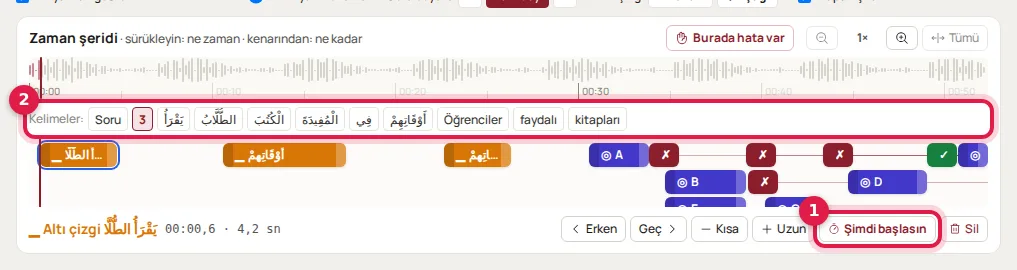
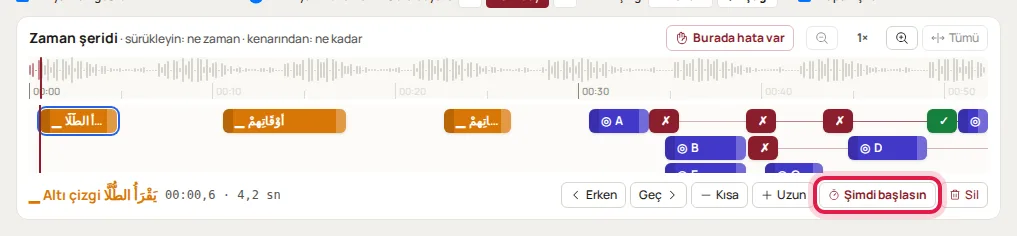
Simpler editing: no word row or line colours; handles follow; no false passage warnings
- Zaman şeridi: the Kelimeler row is removed.
- Underlines are always orange: the colour palette and per-line colours are gone.
- Every drawn mark starts at the paused moment, so consecutive lines show at once
  (they no longer start one after another, invisible while paused); shaped marks
  are not outlined while a tool is on.
- The selection frame updates its handles as soon as a box is resized or moved.
- A long Arabic sentence underlined in an option is no longer counted as a passage:
  no "Arapça paragrafın altı çizilemedi" warning for it; the panel note says how
  many long options are underlined in place.
- Yardım, its pictures and Yenilikler updated.

Claude-Session: https://claude.ai/code/session_01YQoPQ6VQb1pB91X97rm1wF

Changed region(s): [[0.0, 0.0297, 1.0, 0.9492], [0.0305, 0.7712, 0.2743, 0.8898], [0.0, 0.0, 0.0305, 0.0297]]

diff --git a/src/features/video/PreviewEditOverlay.tsx b/src/features/video/PreviewEditOverlay.tsx
@@ -38,30 +38,6 @@ export function resizeRegion(region: AnnotationRegion, handle: Handle, dx: numbe
   return { ...region, x: left, y: top, width: right - left, height: bottom - top, manuallyAdjusted: true };
 }
 
-/** Underline colours: the studio's orange first, then colours that read well on a printed page. */
-export const LINE_COLORS = [
-  { color: '#D97706', name: 'Turuncu' }, { color: '#DC2626', name: 'Kırmızı' }, { color: '#2563EB', name: 'Mavi' },
-  { color: '#16A34A', name: 'Yeşil' }, { color: '#7C3AED', name: 'Mor' }, { color: '#DB2777', name: 'Pembe' },
-  { color: '#0891B2', name: 'Turkuaz' }, { color: '#CA8A04', name: 'Hardal' }, { color: '#92400E', name: 'Kahverengi' },
-  { color: '#1C1917', name: 'Siyah' },
-] as const;
-const LINE_COLOR_KEY = 'studio-line-color';
-const savedLineColor = () => { try { return localStorage.getItem(LINE_COLOR_KEY) || LINE_COLORS[0].color; } catch { return LINE_COLORS[0].color; } };
-
-/** Ten colour dots; the chosen one is ringed. */
-function ColorDots({ value, onPick, label, row }: { value: string; onPick: (color: string) => void; label: string; row?: boolean }) {
-  return (
-    <div role="radiogroup" aria-label={label} className={row ? 'flex items-center gap-0.5' : 'grid grid-cols-5 gap-1'}>
-      {LINE_COLORS.map(c => (
-        <button key={c.color} type="button" role="radio" aria-checked={value === c.color} aria-label={c.name} title={c.name}
-          onClick={() => onPick(c.color)}
-          className={`${row ? 'w-4 h-4' : 'w-6 h-6'} rounded-full border-2 ${value === c.color ? 'border-[#1C1917] ring-2 ring-white' : 'border-white/80 hover:scale-110'} transition-transform`}
-          style={{ background: c.color }} />
-      ))}
-    </div>
-  );
-}
-
 /** Marks a teacher can put on the picture, in toolbar order. */
 export const TOOLS = ['reject', 'correct', 'focus', 'circle', 'underline', 'highlight'] as const;
 export type Tool = typeof TOOLS[number];
@@ -198,14 +174,9 @@ export function PreviewEditOverlay({ fit, canvasWidth, canvasHeight, regions, ac
   const [draft, setDraft] = useState<AnnotationRegion | VideoAction | null>(null);
   const [tool, setTool] = useState<Tool | null>(null);
   const [hasCopy, setHasCopy] = useState(!!copied);
-  // The colour new underlines get, kept on this device.
-  const [lineColor, setLineColor] = useState(savedLineColor);
-  const pickLineColor = (color: string) => { setLineColor(color); try { localStorage.setItem(LINE_COLOR_KEY, color); } catch { /* per-device only */ } };
   useEffect(() => { if (focusBox && !tool && !drawOption) setSelectedId(focusBox.id); }, [focusBox]); // eslint-disable-line react-hooks/exhaustive-deps
   const keys = useRef<(e: KeyboardEvent) => void>(() => {});
   const onPicture = useRef(false);
-  /** The underlines drawn one after another at this paused moment: where the next one starts. */
-  const lineSeries = useRef<{ time: number; end: number } | null>(null);
   useEffect(() => {
     // Capture: runs before the page's Esc (leaving full screen), so Esc first lets go of a box or tool.
     const key = (e: KeyboardEvent) => keys.current(e);
@@ -221,6 +192,10 @@ export function PreviewEditOverlay({ fit, canvasWidth, canvasHeight, regions, ac
 
   const picks = pickableRegions(regions);
   const selected = picks.find(r => r.id === selectedId);
+  // The selection frame follows the box at once when it is resized or moved (not one step later).
+  const frame = useRef<Moveable>(null);
+  useEffect(() => { frame.current?.updateRect(); },
+    [selected?.x, selected?.y, selected?.width, selected?.height, canvasWidth, canvasHeight, fit.x, fit.y, fit.width, fit.height]);
   const shown = (r: AnnotationRegion) => draft && 'x' in draft && draft.id === r.id ? draft : r;
   // Percent of the overlay for a rectangle in canvas pixels.
   const pct = (rect: FitRect) => ({ left: `${rect.x / canvasWidth * 100}%`, top: `${rect.y / canvasHeight * 100}%`,
@@ -283,17 +258,13 @@ export function PreviewEditOverlay({ fit, canvasWidth, canvasHeight, regions, ac
         setSelectedId(id); setTool(null);
       } else if (tool && place) {
         const id = `manual-box-${Date.now()}`;
-        // Underlines are drawn line after line with the tool kept: each new line follows the
-        // previous one in time (while the preview stays at the same moment).
-        const series = tool === 'underline';
-        const at = series && lineSeries.current && Math.abs(lineSeries.current.time - time) < .01 ? lineSeries.current.end : time;
-        // The line flows the way it was dragged (left-to-right or, as Arabic is read, right-to-left).
-        const fromLeft = series && draft && 'x' in draft && gesture.ix <= draft.x + draft.width / 2;
-        const marks = addMark([], id, tool, at, total).map(m => ({ ...m, ...(fromLeft ? { fromLeft: true } : {}),
-          ...(tool === 'underline' && lineColor !== LINE_COLORS[0].color ? { color: lineColor } : {}) }));
+        // Every mark starts at the paused moment, so it shows at once; its time is set on the strip.
+        // The underline tool stays on to draw several lines; the line flows the way it was dragged.
+        const line = tool === 'underline';
+        const fromLeft = line && draft && 'x' in draft && gesture.ix <= draft.x + draft.width / 2;
+        const marks = addMark([], id, tool, time, total).map(m => fromLeft ? { ...m, fromLeft: true } : m);
         onRegions([...regions, { ...place, id }], marks);
-        if (series) lineSeries.current = { time, end: Math.min(total - .1, at + marks[0].duration) };
-        else { setSelectedId(id); setTool(null); }
+        if (!line) { setSelectedId(id); setTool(null); }
       } else if (gesture.boxId) markBox(gesture.boxId);
     } else if (gesture && draft && 'x' in draft) onRegions(regions.map(r => r.id === draft.id ? draft : r));
     else if (gesture && draft) onActions(actions.map(a => a.id === draft.id ? draft as VideoAction : a));
@@ -324,17 +295,7 @@ export function PreviewEditOverlay({ fit, canvasWidth, canvasHeight, regions, ac
   const removeMark = (id: string) => onActions(actions.filter(a => a.id !== id));
   const markHere = (action: VideoAction) => onActions(actions.map(a => a.id === action.id ? nudgeAction(a, time - a.start, total) : a));
   const removeBox = (id: string) => { setSelectedId(null); onRegions(regions.filter(r => r.id !== id)); };
-  const markBox = (id: string) => {
-    if (!tool) return;
-    const added = addMark(actions, id, tool, time, total)
-      .map(m => tool === 'underline' && m.targetRegionId === id && !actions.includes(m) && lineColor !== LINE_COLORS[0].color ? { ...m, color: lineColor } : m);
-    onActions(added); setSelectedId(id); setTool(null);
-  };
-  /** A selected box's underlines take the colour (and new lines get it too). */
-  const recolorLines = (id: string, color: string) => {
-    pickLineColor(color);
-    onActions(actions.map(a => a.targetRegionId === id && a.type === 'underline' ? { ...a, color: color === LINE_COLORS[0].color ? undefined : color } : a));
-  };
+  const markBox = (id: string) => { if (tool) { onActions(addMark(actions, id, tool, time, total)); setSelectedId(id); setTool(null); } };
   const copy = (region: AnnotationRegion) => {
     copied = { region, marks: actions.filter(a => a.targetRegionId === region.id && ICON[a.type]) };
     setHasCopy(true);
@@ -393,13 +354,6 @@ export function PreviewEditOverlay({ fit, canvasWidth, canvasHeight, regions, ac
             style={tool === t ? { background: ICON[t]!.color } : { color: ICON[t]!.color }}>{ICON[t]!.icon}</button>
         ))}
       </div>
-      {tool === 'underline' && (
-        <div className="absolute left-14 top-1/2 -translate-y-1/2 p-2 rounded-xl bg-white/95 shadow-md border border-[#D5D4CC] space-y-1.5"
-          onPointerDown={e => e.stopPropagation()}>
-          <p className="text-[11px] font-semibold text-[#55544F]">Çizgi rengi</p>
-          <ColorDots value={lineColor} onPick={pickLineColor} label="Yeni çizgilerin rengi" />
-        </div>
-      )}
       <div className="absolute top-2 left-2 flex items-center gap-1.5 pointer-events-auto" onPointerDown={e => e.stopPropagation()}>
         <span className={`px-2 py-1 rounded-md text-white text-xs ${drawOption ? 'bg-[#8B1E2D] font-semibold' : 'bg-black/60'}`}>
           {drawOption ? `${drawOption} şıkkı: kutusunu görselde sürükleyerek çizin ya da onu gösteren kutuya tıklayın · Esc: vazgeç` : tool === 'underline' ? 'Alt çizgi: başlangıca basın, sağa ya da sola sürükleyip bırakın · yazının altına bırakırsanız satıra oturur · bitince Esc'
@@ -424,7 +378,7 @@ export function PreviewEditOverlay({ fit, canvasWidth, canvasHeight, regions, ac
         return (
           <div key={region.id} role="button" aria-label={`${region.shape ? (active[0] ? ICON[active[0].type]!.name : 'İşaret') : boxName(region, regions)} kutusu`}
             title="Seç: taşımak için sürükleyin"
-            className={`absolute ${shapeClass} ${drawing ? 'cursor-crosshair border border-dashed border-[#2563EB]/60 hover:bg-[#2563EB]/10' : 'cursor-move'} transition-[border-color] ${drawing ? '' : isSelected ? (region.shape ? 'border border-dashed border-[#2563EB]' : 'border-2 border-[#2563EB] bg-[#2563EB]/5') : color ? 'border-2' : 'border border-dashed border-white/0 hover:border-[#2563EB]/70'}`}
+            className={`absolute ${shapeClass} ${drawing ? `cursor-crosshair ${region.shape ? '' : 'border border-dashed border-[#2563EB]/60'} hover:bg-[#2563EB]/10` : 'cursor-move'} transition-[border-color] ${drawing ? '' : isSelected ? (region.shape ? 'border border-dashed border-[#2563EB]' : 'border-2 border-[#2563EB] bg-[#2563EB]/5') : color ? 'border-2' : 'border border-dashed border-white/0 hover:border-[#2563EB]/70'}`}
             style={{ ...pct(rect), ...(isSelected || !color ? {} : { borderColor: `${color}AA` }) }}
             ref={el => { if (el) boxes.current.set(region.id, el); else boxes.current.delete(region.id); }}
             onPointerDown={e => {
@@ -437,7 +391,7 @@ export function PreviewEditOverlay({ fit, canvasWidth, canvasHeight, regions, ac
       })}
 
       {selected && !drawing && boxes.current.get(selected.id) && (
-        <Moveable key={selected.id} target={boxes.current.get(selected.id)!} draggable resizable origin={false} keepRatio={selected.shape === 'stamp'}
+        <Moveable ref={frame} key={selected.id} target={boxes.current.get(selected.id)!} draggable resizable origin={false} keepRatio={selected.shape === 'stamp'}
           // A line is lengthened from its two ends, a stamp sized from its corners; a box from every side.
           renderDirections={selected.shape === 'stamp' ? ['nw', 'ne', 'sw', 'se']
             : selected.shape === 'line' || (selectedMarks.length && selectedMarks.every(m => m.type === 'underline')) ? ['w', 'e']
@@ -478,7 +432,7 @@ export function PreviewEditOverlay({ fit, canvasWidth, canvasHeight, regions, ac
           style={{ left: pct(selectedRect).left, width: pct(selectedRect).width,
             top: `${(underlineY(selectedRect, scale, underlineOffset + (lineAction.lineOffset ?? 0)) - 8 * scale) / canvasHeight * 100}%`, height: `${16 * scale / canvasHeight * 100}%` }}
           onPointerDown={e => begin(e, { mode: 'line', x: e.clientX, y: e.clientY, action: line!, heightPx: selectedRect.height })}>
-          <span className="w-full h-[3px] rounded shadow-[0_0_0_2px_white]" style={{ background: lineAction.color || '#D97706' }} />
+          <span className="w-full h-[3px] rounded bg-[#D97706] shadow-[0_0_0_2px_white]" />
         </div>
       )}
 
@@ -493,7 +447,7 @@ export function PreviewEditOverlay({ fit, canvasWidth, canvasHeight, regions, ac
           {selectedMarks.length === 0 && <span className="px-1 text-[#787670]">İşaret yok</span>}
           {selectedMarks.map(mark => (
             <span key={mark.id} className="inline-flex items-center gap-0.5 rounded border border-[#E5E4DC] pl-1" title={`${ICON[mark.type]!.name} · ${clock(mark.start)}`}>
-              <span className="font-bold" style={{ color: mark.type === 'underline' && mark.color ? mark.color : ICON[mark.type]!.color }}>{ICON[mark.type]!.icon}</span>
+              <span className="font-bold" style={{ color: ICON[mark.type]!.color }}>{ICON[mark.type]!.icon}</span>
               <span className="font-mono-code">{clock(mark.start)}</span>
               <button type="button" onClick={() => markHere(mark)} disabled={Math.abs(mark.start - time) < .05} title={`${clock(time)} anına al`}
                 className="p-1 rounded hover:bg-[#F2F1EB] disabled:opacity-30" aria-label="Buraya al"><MapPin size={11} /></button>
@@ -501,7 +455,6 @@ export function PreviewEditOverlay({ fit, canvasWidth, canvasHeight, regions, ac
                 className="p-1 rounded text-[#8B1E2D] hover:bg-red-50"><X size={11} /></button>
             </span>
           ))}
-          {line && <ColorDots row value={line.color || LINE_COLORS[0].color} onPick={color => recolorLines(selected.id, color)} label="Bu çizginin rengi" />}
           {onAssignOption && (selected.type.startsWith('option-') || (!selected.content && !selected.shape)) && (
             <span className="inline-flex items-center gap-0.5" role="group" aria-label="Bu kutu hangi şık?">
               <span className="text-[#787670] px-0.5">Şık:</span>

diff --git a/src/features/help/helpTopics.ts b/src/features/help/helpTopics.ts
@@ -140,7 +140,7 @@ export const HELP_TOPICS: HelpTopic[] = [
       { text: '**4 İşaretler** adımında ilk kez **İşaretleri otomatik hazırla**’ya basın. Stüdyo soru görselini okur (şıkları ve Arapça ifadeleri bulur), metninizden hangi şıkkın ne zaman eleneceğini çıkarır ve her işareti seste söylendiği ana yerleştirir. Birkaç saniye sürer.' },
       { text: 'Ekranda üstte videonun önizlemesi, altında ayarlar satırı ve **Zaman şeridi** vardır. Önizlemede ▶ ile videoyu izleyin; 1× … 2× düğmeleriyle daha hızlı izleyebilirsiniz.', image: 'isaretler', alt: 'Önizleme ve işaret araçları' },
       { text: 'Yanlış bir şey görürseniz **Burada hata var**’a basın: video durur ve az önce çıkan işaretin kutusu görselde seçilir.' },
-      { text: 'Video durunca görsel düzenlenebilir olur. Bir kutuya ya da işarete tıklayınca yanında küçük bir çubuk açılır: işaretleri ve saatleri, şık kutularında **Şık** harfleri, çizgide renkler, kopyala, yapıştır ve sil düğmeleri buradadır.', image: 'isaret-secili', alt: 'Seçili kutu ve çubuğu' },
+      { text: 'Video durunca görsel düzenlenebilir olur. Bir kutuya ya da işarete tıklayınca yanında küçük bir çubuk açılır: işaretleri ve saatleri, şık kutularında **Şık** harfleri, kopyala, yapıştır ve sil düğmeleri buradadır.', image: 'isaret-secili', alt: 'Seçili kutu ve çubuğu' },
       { text: 'Bir işaretin zamanını **Zaman şeridi**nden düzeltin. Her işaret bir kutucuktur: sürükleyince işaret daha erken ya da geç çıkar, kenarından çekince ne kadar kalacağı değişir.', image: 'zaman-seridi', alt: 'Zaman şeridi' },
       { text: 'Bitince **İndirmeye geç**’e basın. Değişiklikler kendiliğinden kaydedilir.' },
     ],
@@ -175,9 +175,8 @@ export const HELP_TOPICS: HelpTopic[] = [
           '**◎ ◯ ▮**: Aracı seçip istediğiniz yere sürükleyerek alan çizin. Daire tam çizdiğiniz alanın etrafına çizilir. Var olan bir kutuya tıklarsanız işaret o kutuya konur.',
           'Önizleme durduğunda işaretler tamamlanmış hâliyle görünür; eklediğiniz işaret hemen görülür. Oynatınca her biri sesteki anında çizilerek gelir.',
           '**▁ Alt çizgi**: Aracı seçin, çizginin başlayacağı yere basın ve basılı tutup sağa ya da sola sürükleyip bırakın. Çizginin kalınlığı ve rengi sabittir, yalnız boyu değişir. Yazının hemen altına bırakırsanız çizgi kendiliğinden o satırın altına oturur. Videoda çizgi, sizin sürüklediğiniz yönde akar (Arapça için sağdan sola sürükleyin).',
-          '**Çizgi rengi**: ▁ aracını seçince yanında 10 renk çıkar; seçtiğiniz renk yeni çizgilere uygulanır ve bu cihazda hatırlanır. Çizilmiş bir çizgiyi seçince penceresinde de renkler vardır; tıklayınca o çizginin rengi değişir.',
           'Çizgi, önizlemenin durduğu anda zaman şeridine iner; ne kadar süreceğini şeritte kenarından çekerek ya da **Şimdi** düğmesiyle dinleyerek ayarlarsınız. Çizgiyi sonradan uzatıp kısaltmak için seçin ve iki ucundaki tutamaçları çekin.',
-          '**▁** aracı çizdikten sonra açık kalır: satırların altına sırayla çizgi çekebilirsiniz; her yeni çizgi bir öncekinin bittiği andan başlar. Bitince **Esc**’ye basın.',
+          '**▁** aracı çizdikten sonra açık kalır: birkaç satırın altını arka arkaya çizebilirsiniz. Her çizgi önizlemenin durduğu anda başlar ve hemen görünür; zamanlarını şeritten ayarlarsınız. Bitince **Esc**’ye basın.',
           'Stüdyonun kendisinin bulduğu bir ifadede çizgiyi seçince çizginin kendisini fareyle tutup yukarı aşağı sürükleyerek yalnız o çizginin yüksekliğini ayarlayabilirsiniz.',
           'Görselin üstündeki **Geri al** son değişikliği geri alır.',
         ],
@@ -187,8 +186,7 @@ export const HELP_TOPICS: HelpTopic[] = [
         items: [
           'İşaretler: her işaret simgesi ve saatiyle yazar. Raptiye (**Buraya al**) işareti önizlemenin durduğu ana taşır; ✕ işareti siler.',
           '**Şık** harfleri: Kutunun hangi şık olduğunu söyler. Bir harfe basınca kutu o şık olur; o şıkkın çarpısı ya da tiki sese göre kendiliğinden gelir. (Şık kutularında ve elle çizilen düz kutularda görünür.)',
-          'Renkler: seçili bir çizginin rengini değiştirir.',
-          'Kopyala / Yapıştır: kutuyu ya da işareti çoğaltır. Kopya biraz yanda çıkar ve işaretleri önizlemenin durduğu andan başlar; sürükleyip yerine koyun.',
+                    'Kopyala / Yapıştır: kutuyu ya da işareti çoğaltır. Kopya biraz yanda çıkar ve işaretleri önizlemenin durduğu andan başlar; sürükleyip yerine koyun.',
           'Çöp kutusu: kutuyu ya da işareti siler (**Delete** tuşu da siler).',
         ],
       },
@@ -196,7 +194,6 @@ export const HELP_TOPICS: HelpTopic[] = [
         title: 'Zaman şeridi',
         items: [
           'Üstte sesin dalgası, altında işaret kutucukları vardır. Kırmızı dikey çizgi önizlemenin şu anki yeridir; dalgaya tıklayınca oraya gidilir.',
-          'Dalganın hemen altında seslendirmenin **kelimeleri** yazar. Bir işaret seçiliyken bir kelimeye tıklarsanız işaret tam o kelimenin söylendiği anda başlar. İşaret seçili değilken tıklarsanız önizleme o kelimeye gider.',
           'Renkler: turuncu altı çizgi, mor çerçeve, kırmızı daire ve çarpı, yeşil tik.',
           'Bir kutucuğa tıklayınca altta ayarları çıkar: **Şimdi başlasın / Şimdi bitsin**, **Erken / Geç** (0,1 saniye), **Kısa / Uzun** (yarım saniye) ve **Sil**.',
           '**Şimdi ile dinleyerek zamanlama** (en kolay yol): İşaretin kutucuğuna tıklayın, **Boşluk** ile sesi oynatın. İşaret çıkması gereken anda **Şimdi başlasın**’a (ya da **Enter**’a) basın; altı çizgi, çerçeve ve dairede bitmesi gereken anda bir kez daha basın (**Şimdi bitsin**). Çarpı ve tik yalnız başlar, sona kadar kalır.',
@@ -219,9 +216,9 @@ export const HELP_TOPICS: HelpTopic[] = [
         items: [
           '**Bir şık bulunamadı** (“Eksik şık: C”): Sağdaki **Yayına hazır** listesinde **C şıkkını görselde göster**’e basıp kutusunu çizin; ya da o şıkkı gösteren kutuya tıklayıp **Hangi şık?** satırından C’yi seçin. Çarpısı ya da tiki sese göre kendiliğinden gelir.',
           '**İki şık tek kutuda birleşmiş** (örneğin B ile C): Kutuyu tutamaçlarından küçültüp yalnız B’yi içine alacak hâle getirin. **Yayına hazır** listesi C’yi eksik gösterir; **C şıkkını görselde göster**’e basıp C’nin kutusunu çizin. C’nin işaretleri kendiliğinden gelir.',
-          '**Bir kelimenin altı çizilmemiş**: Şeritteki kelimelerden o kelimeye tıklayın (önizleme oraya gider), ▁ aracıyla kelimenin altına sağdan sola sürükleyin. Süresini **Şimdi** ile dinleyerek ayarlayın.',
+          '**Bir kelimenin altı çizilmemiş**: Önizlemeyi o kelimenin okunduğu yerde durdurun, ▁ aracıyla kelimenin altına sağdan sola sürükleyin. Süresini **Şimdi** ile dinleyerek ayarlayın.',
           '**Altı çizgiler kelimelerin fazla altında ya da üstünde**: Ayarlar satırındaki **↑ Yukarı / ↓ Aşağı**.',
-          '**İşaret erken ya da geç çıkıyor**: Kutucuğu seçip şeritteki doğru kelimeye tıklayın, ya da dinlerken **Şimdi başlasın**’a basın. İnce ayar için **Erken / Geç**.',
+          '**İşaret erken ya da geç çıkıyor**: Kutucuğu seçip dinlerken **Şimdi başlasın**’a basın ya da şeritte sürükleyin. İnce ayar için **Erken / Geç**.',
           '**Altyazı bir şıkkı kapatıyor**: **Soru boyutu −** ile soruyu küçültün ya da **Altyazı konumu**nu değiştirin.',
           '**Her şey karıştı**: Sağdaki **İşaretleri yeniden hazırla** işaretleri baştan kurar. Elle yaptığınız düzeltmeler silineceği için önce onay ister.',
           'Sağ panelde görselin nasıl okunduğu ve varsa paragrafın kaç satırının bulunduğu yazar. Paragraf görselde bulunamazsa sebebi de orada yazar.',

diff --git a/src/features/video/MarkTimeline.tsx b/src/features/video/MarkTimeline.tsx
@@ -3,7 +3,7 @@ import WaveSurfer from 'wavesurfer.js';
 import TimelinePlugin from 'wavesurfer.js/plugins/timeline';
 import HoverPlugin from 'wavesurfer.js/plugins/hover';
 import { ArrowsOutLineHorizontal, CaretLeft, CaretRight, MagnifyingGlassMinus, MagnifyingGlassPlus, Minus, Plus, Timer, Trash, HandPalm } from '@phosphor-icons/react';
-import type { AnnotationRegion, NarrationWord, VideoAction } from '../../types';
+import type { AnnotationRegion, VideoAction } from '../../types';
 import { adjacentAction, clock, isTypingTarget, nudgeAction } from '../question-editor/workflow';
 
 const MARK: Partial<Record<VideoAction['type'], { icon: string; color: string; name: string }>> = {
@@ -64,11 +64,6 @@ export function tapMark(action: VideoAction, time: number, total: number, stage:
   return nudgeAction(action, time - action.start, total);
 }
 
-/** The words said around `time` (a few before, more after), in the order they are said. */
-export function nearbyWords(words: NarrationWord[], time: number, before = 2.5, after = 6, max = 14) {
-  return words.map((w, i) => ({ w, i })).filter(({ w }) => w.end >= time - before && w.start <= time + after).slice(0, max);
-}
-
 const seconds = (s: number) => `${s.toLocaleString('tr', { maximumFractionDigits: 1 })} sn`;
 
 interface Props {
@@ -88,8 +83,6 @@ interface Props {
   playing?: boolean;
   /** "Burada hata var": the box of the mark just seen, to select it on the picture (null: none). */
   onFlag?: (regionId: string | null) => void;
-  /** The narration's words, shown under the waveform: a click moves the selected mark to that word. */
-  words?: NarrationWord[];
 }
 
 /**
@@ -108,7 +101,7 @@ export function markJustSeen(marks: VideoAction[], time: number, within = 4): Vi
  * how long it stays (an underline is drawn over that whole time). Crosses and ticks stay to the
  * end, so only their start moves. Zoom in for fine timing; the marks follow the zoom and scroll.
  */
-export function MarkTimeline({ actions, regions, duration, currentTime, audioUrl, onSeek, onPlayPause, onActions, keyboard, compact, playing, onFlag, words = [] }: Props) {
+export function MarkTimeline({ actions, regions, duration, currentTime, audioUrl, onSeek, onPlayPause, onActions, keyboard, compact, playing, onFlag }: Props) {
   const waveBox = useRef<HTMLDivElement>(null);
   const lanesBox = useRef<HTMLDivElement>(null);
   const surfer = useRef<WaveSurfer | null>(null);
@@ -283,24 +276,6 @@ export function MarkTimeline({ actions, regions, duration, currentTime, audioUrl
 
       <div ref={waveBox} className="rounded-md bg-[#FAF9F5] cursor-pointer" title="Tıklayın ya da sürükleyin: o ana gidin" />
 
-      {words.length > 0 && (
-        // A fixed height: Arabic words set taller than Turkish ones, and a row that grows while the
-        // voice plays would make the editor rescale the question every few seconds.
-        <div className="flex flex-nowrap items-center gap-1 overflow-hidden text-xs h-7 shrink-0" aria-label="Seslendirmenin kelimeleri">
-          <span className="shrink-0 text-[#8A8880]" title="Kırmızı çizginin olduğu yerde söylenen kelimeler, söylendikleri sırayla">Kelimeler:</span>
-          {nearbyWords(words, currentTime).map(({ w, i }) => (
-            <button key={`${i}-${w.start}`} type="button" dir="auto"
-              className={`shrink-0 h-6 px-1.5 leading-6 overflow-hidden rounded border ${currentTime >= w.start && currentTime < w.end ? 'border-[#8B1E2D] bg-[#F6E3E5] text-[#8B1E2D] font-semibold' : 'border-[#E5E4DC] bg-white text-[#33322E] hover:border-[#8B1E2D] hover:text-[#8B1E2D]'}`}
-              title={selectedId ? `Seçili işaret “${w.text}” söylenirken başlasın (${clock(w.start)})` : `${clock(w.start)}: buraya gidin`}
-              onClick={() => {
-                const mark = actions.find(a => a.id === selectedId);
-                if (mark) replace(nudgeAction(mark, w.start - mark.start, total));
-                onSeek(w.start);
-              }}>{w.text}</button>
-          ))}
-        </div>
-      )}
-
       <div className={compact && laneCount > COMPACT_ROWS ? 'overflow-y-auto rounded-md' : undefined}
         style={compact && laneCount > COMPACT_ROWS ? { maxHeight: COMPACT_ROWS * LANE + 14 } : undefined}
         title={compact && laneCount > COMPACT_ROWS ? 'Diğer işaretler için şeridi aşağı kaydırın' : undefined}>
@@ -350,7 +325,7 @@ export function MarkTimeline({ actions, regions, duration, currentTime, audioUrl
             </span>
           </>
         ) : (
-          <span className="text-[#A8A69E]">Bir işarete tıklayın: “Şimdi” (Enter), erken/geç, kısa/uzun ve sil burada çıkar · kelimeye tıklayınca seçili işaret oraya gelir.</span>
+          <span className="text-[#A8A69E]">Bir işarete tıklayın: “Şimdi” (Enter), erken/geç, kısa/uzun ve sil burada çıkar.</span>
         )}
       </div>
     </div>

diff --git a/src/features/help/changelog.ts b/src/features/help/changelog.ts
@@ -21,11 +21,12 @@ export const NEWS: NewsEntry[] = [
           { text: '**Çarpı ve tik tıkladığınız yere konur:** Aracı seçip görselde bir noktaya tıklayın, işaret tam oraya gelir; kendisinden tutup taşıyabilir, köşesinden büyütebilirsiniz. Bir şıkka tıklarsanız eskisi gibi o şık işaretlenir.', help: 'isaretler' },
           { text: '**Çizgi yalnız çizgidir:** Çizdiğiniz çizginin etrafında kutu yok; seçince yalnız iki ucunda tutamak çıkar, ortasından tutup taşırsınız.', help: 'isaretler' },
           { text: '**Daire çizdiğiniz yere oturur** ve kendisinden tutulup taşınır, kenarlarından büyütülür.', help: 'isaretler' },
-          { text: '**Küçük araç çubuğu:** Bir işareti seçince büyük pencere yerine küçük bir çubuk çıkar: saat, buraya al, sil, renk, kopyala. Taşırken yazı satırlarına ve diğer işaretlere hizalanır.', help: 'isaretler' },
+          { text: '**Küçük araç çubuğu:** Bir işareti seçince büyük pencere yerine küçük bir çubuk çıkar: saat, buraya al, sil, kopyala. Taşırken yazı satırlarına ve diğer işaretlere hizalanır.', help: 'isaretler' },
+          { text: 'Büyütüp küçültünce mavi tutamaklar işaretle birlikte hemen yerine oturur.' },
+          { text: 'Arka arkaya çizilen çizgilerin her biri önizlemenin durduğu anda başlar ve hemen turuncu görünür; zamanını şeritten ayarlarsınız.', help: 'isaretler' },
+          { text: 'Uzun şıkları okuyan sorularda sağdaki listede yanlış “Arapça paragrafın altı çizilemedi” uyarıları artık çıkmaz (şıkların altı zaten şıkta çiziliyor). Eski sorularda **İşaretleri yeniden hazırla**’ya basınca kalkar.' },
           { text: 'Önizleme dururken eklediğiniz işaret hemen görünür (önceden oynatmadan görünmüyordu).' },
-          { text: '**Çizgi rengi:** ▁ aracını seçince yanında 10 renk çıkar; seçtiğiniz renk yeni çizgilere uygulanır. Çizilmiş bir çizgiyi seçip penceresinden rengini değiştirebilirsiniz.', help: 'isaretler' },
           { text: '**Uzun şıkların altı çizilir:** Çözüm bir şıkkın beş kelimeden uzun Arapça cümlesini okurken (“A seçeneğinde şöyle deniyor: …”), o cümlenin altı şıkkın kendi satırlarında, okundukça çizilir. Kısa şıklar yalnız çerçevelenir.', help: 'isaretler' },
-          { text: '**Kelimeden zamanlama:** Şeridin altında o anda söylenen kelimeler yazar. Bir işaret seçiliyken kelimeye tıklarsanız işaret tam o kelimede başlar.', help: 'isaretler' },
         ],
       },
       {

diff --git a/src/services/pipeline/localVideoPipeline.ts b/src/services/pipeline/localVideoPipeline.ts
@@ -142,7 +142,12 @@ export class LocalVideoPipeline {
     const stemWords = wordsOutside(ocrResult.words, options);
     const { passageMatches, arabicMatches } = planArabicMarks(solutionText, stemWords, ocrResult.arabicStemWords, suppressed, options, ocrResult.words);
     const passages = findPassages(solutionText);
-    const missedPassages = passages.filter(p => !passageMatches.some(m => m.passageEnd === p[p.length - 1].to));
+    // A long Arabic sentence read as an option is underlined in the option: it is not a passage to find.
+    const readInOption = (p: typeof passages[number]) => arabicMatches.some(m => m.region.id.startsWith('option-')
+      && m.sourceStart !== undefined && m.sourceStart >= p[0].from && m.sourceStart < p[p.length - 1].to);
+    const optionReads = passages.filter(readInOption);
+    const realPassages = passages.filter(p => !readInOption(p));
+    const missedPassages = realPassages.filter(p => !passageMatches.some(m => m.passageEnd === p[p.length - 1].to));
     const round = (v: number) => Math.round(v * 10000) / 10000;
     lastDiagnostics = {
       at: new Date().toISOString(), engine: rawOcr.engine, cloudIssue: rawOcr.cloudIssue,
@@ -241,9 +246,12 @@ export class LocalVideoPipeline {
       ocrEngine: rawOcr.engine,
       ocrNote: rawOcr.cloudIssue,
       visionReading: rawOcr.visionReading,
-      passageNote: passages.length
-        ? `Çözümde ${passages.length} Arapça paragraf var; görselde ${new Set(passageMatches.map(m => m.region.id)).size} satırı bulundu.`
-        : 'Çözümde 10 kelimeden uzun kesintisiz bir Arapça paragraf yok.',
+      passageNote: [
+        realPassages.length
+          ? `Çözümde ${realPassages.length} Arapça paragraf var; görselde ${new Set(passageMatches.map(m => m.region.id)).size} satırı bulundu.`
+          : optionReads.length ? '' : 'Çözümde 10 kelimeden uzun kesintisiz bir Arapça paragraf yok.',
+        optionReads.length ? `Okunan ${optionReads.length} uzun şıkkın altı şıkların kendi satırlarında çiziliyor.` : '',
+      ].filter(Boolean).join(' '),
     };
   }
 }

diff --git a/src/features/question-editor/steps/EditorStage.tsx b/src/features/question-editor/steps/EditorStage.tsx
@@ -225,7 +225,6 @@ export function EditorStage({ videoGenerated, hasImage, previewMode, setPreviewM
             duration={activeAudioDuration || 15} currentTime={currentPreviewTime} audioUrl={activeAudioUrl}
             onSeek={setCurrentPreviewTime} onPlayPause={() => setIsPlayingPreview(!isPlayingPreview)} keyboard compact={short}
             playing={isPlayingPreview} onFlag={id => setFocusBox(id ? { id } : null)}
-            words={currentProject.narrationSource?.words || currentProject.audioNarration?.words || []}
             onActions={actions => { setRegionHistory(h => [...h.slice(-29), currentProject.videoConfig]); updateCurrentProject({ videoConfig: { ...currentProject.videoConfig, timelineActions: actions } }); }} /></div>
         )}
       </div>
